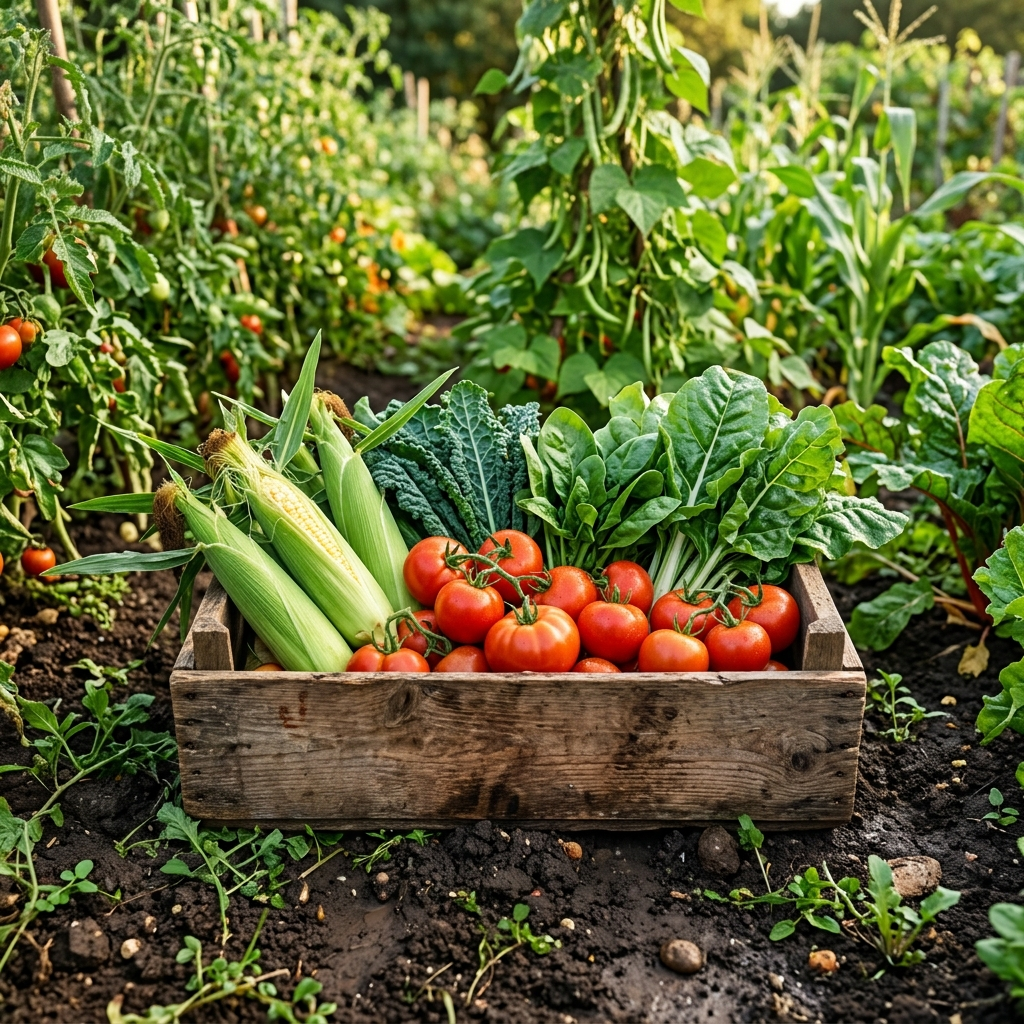
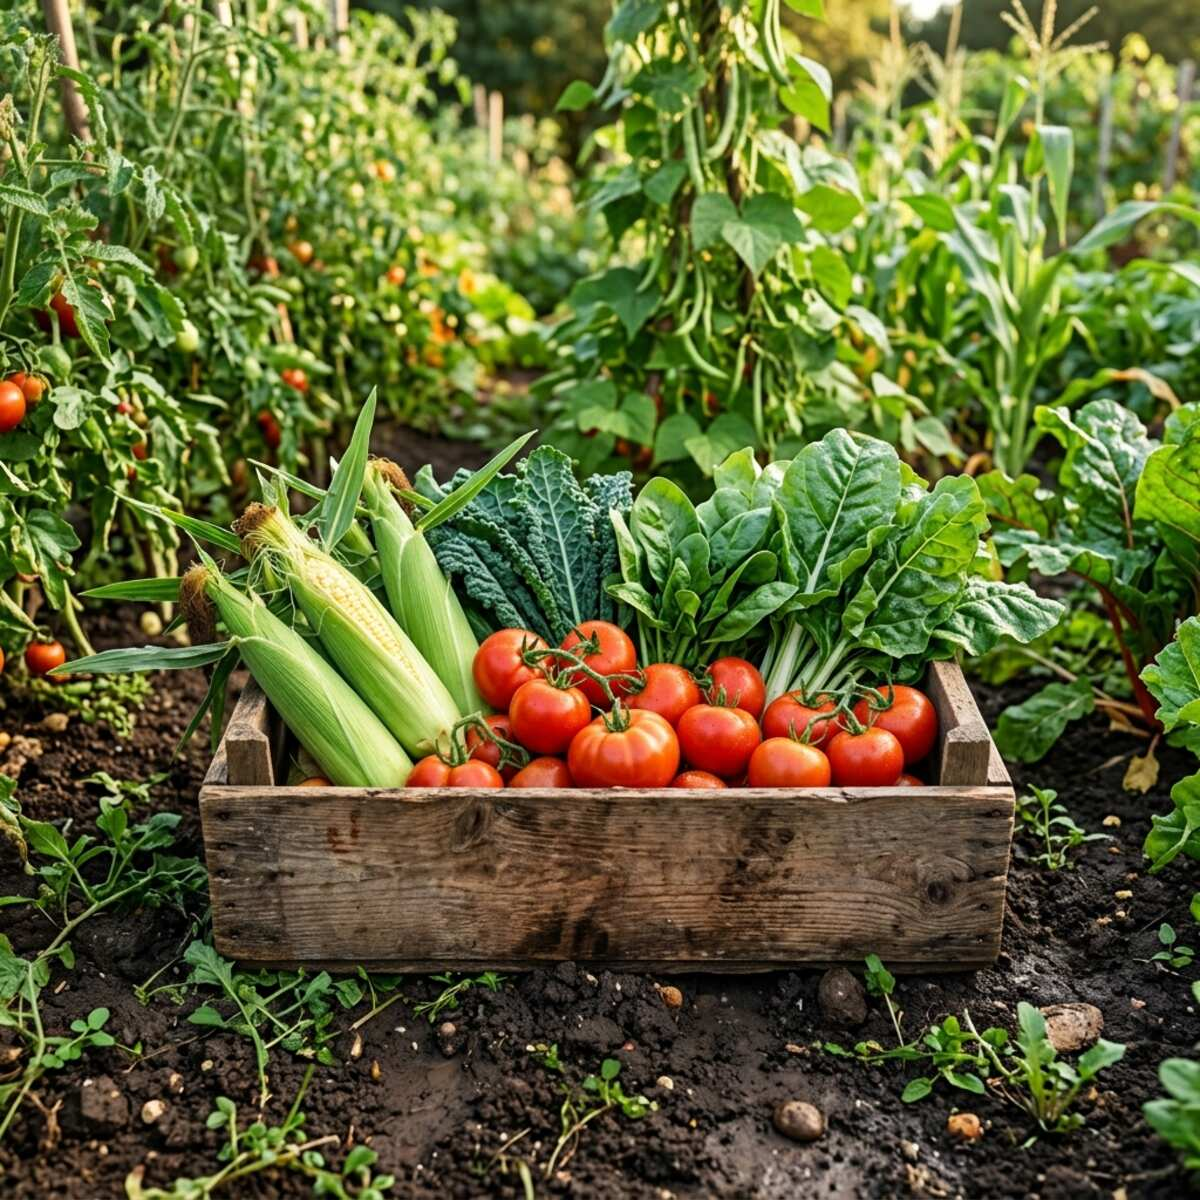
Make AgriTrack an installable, offline-friendly PWA
- manifest.webmanifest with icons (incl. maskable) and shortcuts.
- sw.js: cache-first for CSS/JS/icons and the Bootstrap CDN files;
  network-first for pages. The listing form is cached so it opens
  offline; other pages fall back to offline.html (EN/SW). Form posts
  are never intercepted.
- Listing drafts are saved to localStorage (keyed per user) while
  typing. Submitting while offline keeps the draft and says so; it is
  restored when the page is opened again and cleared after a
  successful submit. A fresh page load is required to post, so the
  CSRF token is always current.
- Logout clears the service worker cache so nothing from the account
  stays on a shared phone.
- Hero image recompressed from 1.1 MB to about 210 KB (1200px wide).

Verified in headless Chromium with the page and the service worker
both offline: draft kept on offline submit, form served from cache
with draft restored, offline fallback page, submit after reconnecting,
cache cleared on logout.

diff --git a/public/script.js b/public/script.js
@@ -50,4 +50,90 @@ document.addEventListener('DOMContentLoaded', function () {
         }, 4000);
     });
 
+    // ------------------------------------------------------------------
+    // 3. Logout: clear the service worker cache first, so a shared phone
+    //    keeps nothing from this account (e.g. the cached listing form)
+    // ------------------------------------------------------------------
+    document.querySelectorAll('form[action$="logout.php"]').forEach(function (form) {
+        form.addEventListener('submit', function (e) {
+            if (!('caches' in window) || form.dataset.cleared) {
+                return;
+            }
+            e.preventDefault();
+            form.dataset.cleared = '1';
+            caches.keys()
+                .then(function (keys) { return Promise.all(keys.map(function (k) { return caches.delete(k); })); })
+                .finally(function () { form.submit(); });
+        });
+    });
+
+    // ------------------------------------------------------------------
+    // 4. Offline-friendly forms: <form data-draft-key="..."> keeps a draft
+    //    in localStorage. Submitting while offline keeps the draft instead
+    //    of losing it; it is restored next time the page opens online.
+    // ------------------------------------------------------------------
+    document.querySelectorAll('form[data-draft-key]').forEach(function (form) {
+        const key = form.dataset.draftKey;
+        const notice = document.getElementById('offlineNotice');
+        const say = function (msg, withReload) {
+            if (!notice || !msg) return;
+            notice.textContent = msg + ' ';
+            if (withReload) {
+                const btn = document.createElement('button');
+                btn.type = 'button';
+                btn.className = 'btn btn-sm btn-success ms-1';
+                btn.textContent = notice.dataset.reloadLabel || 'Reload';
+                btn.addEventListener('click', function () { location.reload(); });
+                notice.appendChild(btn);
+            }
+            notice.classList.remove('d-none');
+        };
+        const fields = function () {
+            return Array.prototype.filter.call(form.elements, function (el) {
+                return el.name && el.type !== 'file' && el.type !== 'hidden' && el.type !== 'submit';
+            });
+        };
+        const read = function () {
+            try { return JSON.parse(localStorage.getItem(key) || 'null'); } catch (err) { return null; }
+        };
+        const save = function () {
+            const data = {};
+            fields().forEach(function (el) { data[el.name] = el.value; });
+            try { localStorage.setItem(key, JSON.stringify(data)); } catch (err) { /* storage full or blocked */ }
+        };
+
+        // Restore a saved draft into an empty form (not over server-side values)
+        const draft = read();
+        const nameField = form.elements.namedItem('name');
+        if (draft && nameField && nameField.value === '') {
+            fields().forEach(function (el) {
+                if (Object.prototype.hasOwnProperty.call(draft, el.name)) el.value = draft[el.name];
+            });
+            say(notice && notice.dataset.restored);
+        }
+
+        form.addEventListener('input', save);
+        form.addEventListener('change', save);
+        form.addEventListener('submit', function (e) {
+            if (!navigator.onLine) {
+                e.preventDefault();
+                save();
+                say(notice && notice.dataset.offlineSaved);
+                return;
+            }
+            try { localStorage.removeItem(key); } catch (err) { /* ignore */ }
+        });
+        window.addEventListener('online', function () {
+            if (read()) say(notice && notice.dataset.backOnline, true);
+        });
+    });
+
+    // ------------------------------------------------------------------
+    // 5. Installable app (PWA): register the service worker
+    // ------------------------------------------------------------------
+    if ('serviceWorker' in navigator) {
+        navigator.serviceWorker.register('sw.js').catch(function (err) {
+            console.warn('Service worker not registered:', err);
+        });
+    }
 });

diff --git a/public/sw.js b/public/sw.js
@@ -1,0 +1,66 @@
+/* AgriTrack service worker
+ * - Static assets (CSS/JS/icons, Bootstrap from the CDN): cache-first.
+ * - Pages: network-first. The listing form (add_crop.php) is kept so it
+ *   can be opened offline; other pages fall back to offline.html.
+ *   Signed-in pages are otherwise not cached, so nothing private
+ *   lingers on shared phones (logout also clears the cache).
+ */
+const VERSION = 'agritrack-v1';
+const PRECACHE = [
+    'offline.html', 'style.css', 'script.js', 'manifest.webmanifest',
+    'assets/icon-192.png', 'assets/icon-512.png',
+    'https://cdn.jsdelivr.net/npm/bootstrap@5.3.3/dist/css/bootstrap.min.css',
+    'https://cdn.jsdelivr.net/npm/bootstrap@5.3.3/dist/js/bootstrap.bundle.min.js',
+    'https://cdn.jsdelivr.net/npm/bootstrap-icons@1.11.3/font/bootstrap-icons.css'
+];
+const OFFLINE_PAGES = ['add_crop.php'];
+
+self.addEventListener('install', (event) => {
+    event.waitUntil(caches.open(VERSION).then((c) => c.addAll(PRECACHE)).then(() => self.skipWaiting()));
+});
+
+self.addEventListener('activate', (event) => {
+    event.waitUntil(
+        caches.keys()
+            .then((keys) => Promise.all(keys.filter((k) => k !== VERSION).map((k) => caches.delete(k))))
+            .then(() => self.clients.claim())
+    );
+});
+
+self.addEventListener('fetch', (event) => {
+    const req = event.request;
+    if (req.method !== 'GET') {
+        return; // never intercept form posts
+    }
+    const url = new URL(req.url);
+
+    if (req.mode === 'navigate') {
+        const keep = url.origin === location.origin && OFFLINE_PAGES.some((p) => url.pathname.endsWith('/' + p));
+        event.respondWith(
+            fetch(req)
+                .then((res) => {
+                    if (keep && res.ok) {
+                        const copy = res.clone();
+                        caches.open(VERSION).then((c) => c.put(req, copy));
+                    }
+                    return res;
+                })
+                .catch(() => caches.match(req).then((hit) => hit || caches.match('offline.html')))
+        );
+        return;
+    }
+
+    const isStatic = /\.(css|js|png|svg|jpg|woff2?|webmanifest)$/.test(url.pathname)
+        && (url.origin === location.origin || url.hostname === 'cdn.jsdelivr.net');
+    if (isStatic) {
+        event.respondWith(
+            caches.match(req).then((hit) => hit || fetch(req).then((res) => {
+                if (res.ok) {
+                    const copy = res.clone();
+                    caches.open(VERSION).then((c) => c.put(req, copy));
+                }
+                return res;
+            }))
+        );
+    }
+});

diff --git a/public/offline.html b/public/offline.html
@@ -1,0 +1,26 @@
+<!DOCTYPE html>
+<html lang="en">
+<head>
+    <meta charset="UTF-8">
+    <meta name="viewport" content="width=device-width, initial-scale=1.0">
+    <title>Offline | AgriTrack</title>
+    <meta name="theme-color" content="#198754">
+    <style>
+        body { font-family: system-ui, -apple-system, "Segoe UI", sans-serif; background: #f8f9fa; color: #212529;
+               min-height: 100vh; margin: 0; display: grid; place-items: center; padding: 16px; box-sizing: border-box; }
+        .card { background: #fff; max-width: 420px; padding: 32px; border-radius: 12px; box-shadow: 0 2px 12px rgba(0,0,0,.08); text-align: center; }
+        h1 { color: #198754; font-size: 1.4rem; margin: .5rem 0; }
+        p { color: #6c757d; line-height: 1.5; }
+        button { background: #198754; color: #fff; border: 0; border-radius: 6px; padding: 10px 20px; font-size: 1rem; cursor: pointer; }
+    </style>
+</head>
+<body>
+    <div class="card">
+        <img src="assets/icon-192.png" alt="" width="64" height="64">
+        <h1>You're offline · Hauko mtandaoni</h1>
+        <p>AgriTrack needs a connection for this page. Listings you were writing are saved on this phone and will be restored when you reconnect.</p>
+        <p lang="sw">Bidhaa uliyokuwa ukiandika imehifadhiwa kwenye simu hii na itarejeshwa ukiunganishwa tena.</p>
+        <button type="button" onclick="location.reload()">Try again · Jaribu tena</button>
+    </div>
+</body>
+</html>

diff --git a/public/add_crop.php b/public/add_crop.php
@@ -71,9 +71,13 @@ require_once __DIR__ . '/../includes/header.php';
                 </div>
             <?php endif; ?>
 
-            <div id="offlineNotice" class="alert alert-warning d-none" role="status"></div>
+            <div id="offlineNotice" class="alert alert-warning d-none" role="status" aria-live="polite"
+                 data-offline-saved="<?= e(t('draft_offline_saved')) ?>"
+                 data-restored="<?= e(t('draft_restored')) ?>"
+                 data-back-online="<?= e(t('draft_back_online')) ?>"
+                 data-reload-label="<?= e(t('reload')) ?>"></div>
 
-            <form method="POST" enctype="multipart/form-data" novalidate id="cropForm" data-draft-key="agritrack:add_crop">
+            <form method="POST" enctype="multipart/form-data" novalidate id="cropForm" data-draft-key="agritrack:add_crop:<?= $uid ?>">
                 <input type="hidden" name="csrf_token" value="<?= csrf_token() ?>">
 
                 <?php require __DIR__ . '/../includes/crop_form.php'; ?>

diff --git a/public/view_crop.php b/public/view_crop.php
@@ -39,6 +39,10 @@ $row = static function (string $icon, string $label, string $valueHtml): void { 
     <link rel="stylesheet" href="https://cdn.jsdelivr.net/npm/bootstrap@5.3.3/dist/css/bootstrap.min.css">
     <link rel="stylesheet" href="https://cdn.jsdelivr.net/npm/bootstrap-icons@1.11.3/font/bootstrap-icons.css">
     <link rel="stylesheet" href="style.css">
+    <link rel="manifest" href="manifest.webmanifest">
+    <meta name="theme-color" content="#198754">
+    <link rel="icon" href="assets/favicon-32.png" sizes="32x32">
+    <link rel="apple-touch-icon" href="assets/apple-touch-icon.png">
 </head>
 <body>
 
@@ -112,5 +116,6 @@ $row = static function (string $icon, string $label, string $valueHtml): void { 
     </div>
 </div>
 
+<script>if ('serviceWorker' in navigator) navigator.serviceWorker.register('sw.js');</script>
 </body>
 </html>

diff --git a/lang/sw.php b/lang/sw.php
@@ -421,4 +421,10 @@ return [
     'whatsapp'                 => 'WhatsApp',
     'wa_about'                 => 'Habari, nimeona %s yako kwenye AgriTrack.',
     'wa_hello_farmer'          => 'Habari, nimekupata kwenye AgriTrack.',
+
+    // ── Offline drafts ────────────────────────────────────────────────────────
+    'draft_offline_saved'      => 'Hauko mtandaoni. Bidhaa yako imehifadhiwa kwenye kifaa hiki na itarejeshwa ukiunganishwa tena.',
+    'draft_restored'           => 'Tumerejesha bidhaa uliyoanza kuandika awali. Ikague kisha uwasilishe.',
+    'draft_back_online'        => 'Umerudi mtandaoni. Pakia upya ukurasa ili uwasilishe bidhaa uliyohifadhi.',
+    'reload'                   => 'Pakia upya',
 ];

diff --git a/public/index.php b/public/index.php
@@ -30,6 +30,10 @@ $demo        = ($_ENV['DEMO_MODE'] ?? '') === '1';
     <link rel="stylesheet" href="https://cdn.jsdelivr.net/npm/bootstrap@5.3.3/dist/css/bootstrap.min.css">
     <link rel="stylesheet" href="https://cdn.jsdelivr.net/npm/bootstrap-icons@1.11.3/font/bootstrap-icons.css">
     <link rel="stylesheet" href="style.css">
+    <link rel="manifest" href="manifest.webmanifest">
+    <meta name="theme-color" content="#198754">
+    <link rel="icon" href="assets/favicon-32.png" sizes="32x32">
+    <link rel="apple-touch-icon" href="assets/apple-touch-icon.png">
 </head>
 <body>
 
@@ -111,5 +115,6 @@ $demo        = ($_ENV['DEMO_MODE'] ?? '') === '1';
     <?= t('powered_by') ?> · SCO 207
 </footer>
 
+<script>if ('serviceWorker' in navigator) navigator.serviceWorker.register('sw.js');</script>
 </body>
 </html>

diff --git a/lang/en.php b/lang/en.php
@@ -422,4 +422,10 @@ return [
     'whatsapp'                 => 'WhatsApp',
     'wa_about'                 => 'Hello, I saw your %s on AgriTrack.',
     'wa_hello_farmer'          => 'Hello, I found you on AgriTrack.',
+
+    // ── Offline drafts ────────────────────────────────────────────────────────
+    'draft_offline_saved'      => 'You are offline. Your listing is saved on this device and will be restored when you reconnect.',
+    'draft_restored'           => 'We restored a listing you started earlier. Check it and submit.',
+    'draft_back_online'        => 'You\'re back online. Reload to submit your saved listing.',
+    'reload'                   => 'Reload',
 ];

diff --git a/includes/header.php b/includes/header.php
@@ -41,6 +41,10 @@ $activePage = $activeFor[$currentPage] ?? $currentPage;
     <link rel="stylesheet" href="https://cdn.jsdelivr.net/npm/bootstrap@5.3.3/dist/css/bootstrap.min.css">
     <link rel="stylesheet" href="https://cdn.jsdelivr.net/npm/bootstrap-icons@1.11.3/font/bootstrap-icons.css">
     <link rel="stylesheet" href="<?= $root ?>style.css">
+    <link rel="manifest" href="manifest.webmanifest">
+    <meta name="theme-color" content="#198754">
+    <link rel="icon" href="assets/favicon-32.png" sizes="32x32">
+    <link rel="apple-touch-icon" href="assets/apple-touch-icon.png">
 </head>
 <body class="bg-light">
 <a class="visually-hidden-focusable position-absolute top-0 start-0 m-2 btn btn-light" href="#main"><?= t('skip_to_content') ?></a>

diff --git a/includes/auth_header.php b/includes/auth_header.php
@@ -15,6 +15,10 @@ $currentLang = $_SESSION['lang'] ?? 'en';
     <link rel="stylesheet" href="https://cdn.jsdelivr.net/npm/bootstrap@5.3.3/dist/css/bootstrap.min.css">
     <link rel="stylesheet" href="https://cdn.jsdelivr.net/npm/bootstrap-icons@1.11.3/font/bootstrap-icons.css">
     <link rel="stylesheet" href="style.css">
+    <link rel="manifest" href="manifest.webmanifest">
+    <meta name="theme-color" content="#198754">
+    <link rel="icon" href="assets/favicon-32.png" sizes="32x32">
+    <link rel="apple-touch-icon" href="assets/apple-touch-icon.png">
 </head>
 <body>
 
